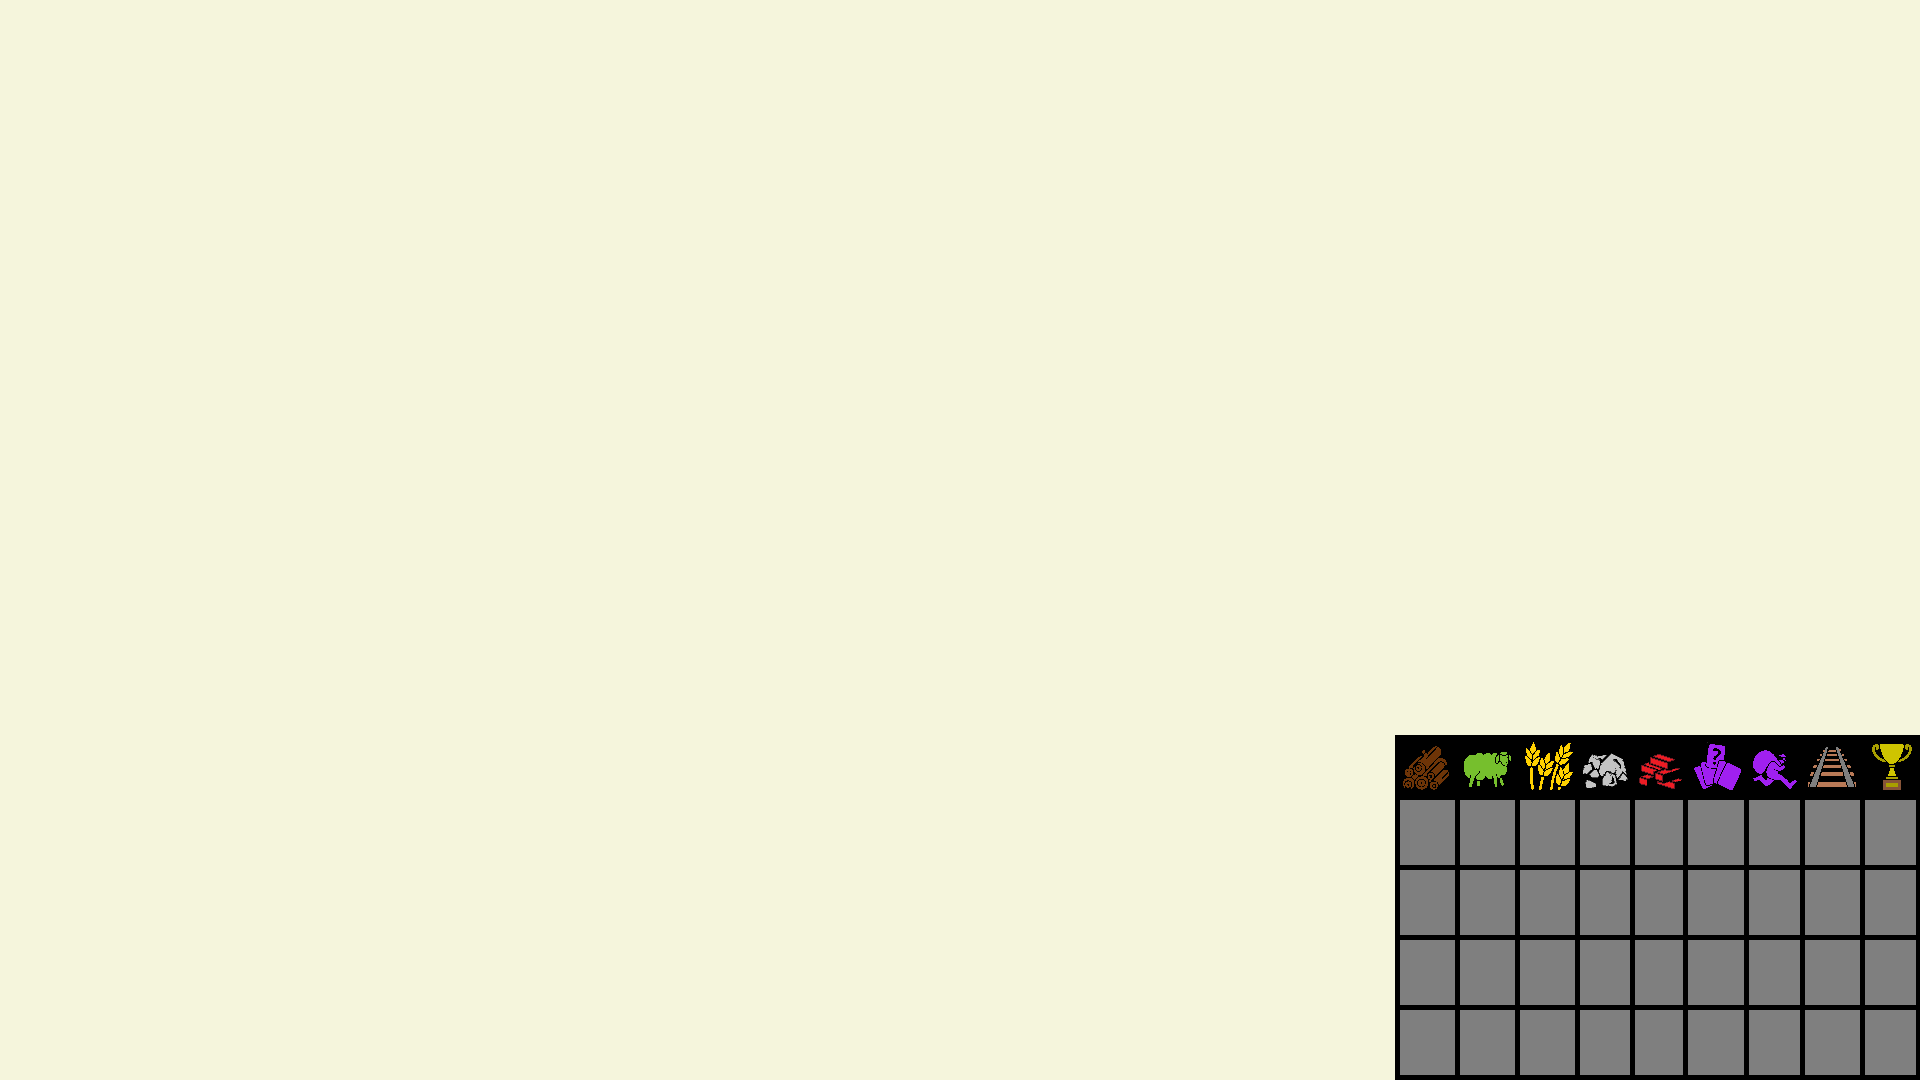
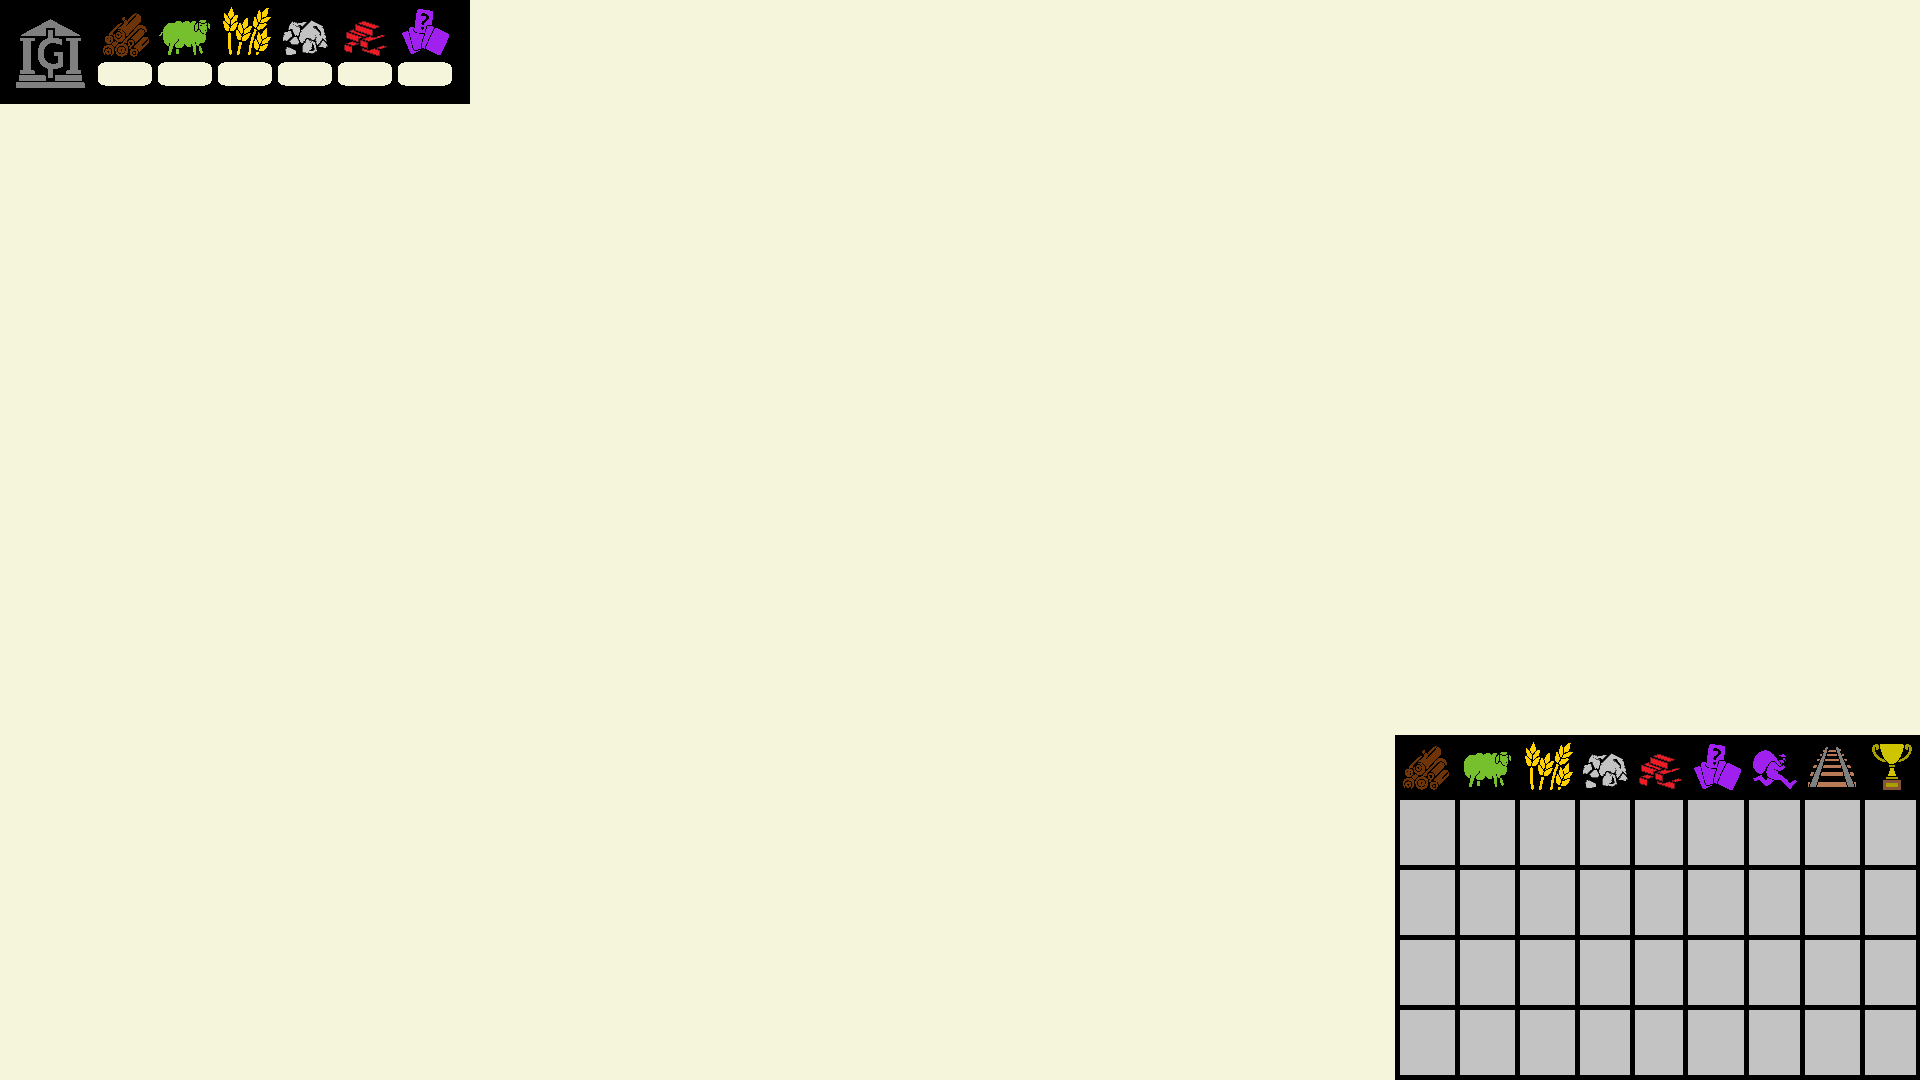
Implemented bank.py class / bank UI

Changed region(s): [[0.7188, 0.7333, 1.0, 1.0], [0.0, 0.0, 0.25, 0.1222]]

diff --git a/catan/player.py b/catan/player.py
@@ -1,6 +1,6 @@
 import pygame
 import math
-from catan.constants import HOUSE_POSITIONS, CYAN, VIC_POINT_THRESHOLD, BUFFER, ROAD_POSITIONS, NUMBER_FONT
+from catan.constants import HOUSE_POSITIONS, CYAN, VIC_POINT_THRESHOLD, BUFFER, ROAD_POSITIONS, NUMBER_FONT, BLACK
 
 
 class Player:
@@ -68,51 +68,51 @@ class Player:
 
     def draw_roads(self, screen):
         for road in self.roads:
-            pygame.draw.line(screen,self.color,road[0], road[1], 15)
+            pygame.draw.line(screen,self.color, road[0], road[1], 10)
 
     def draw_resources(self, screen, y_pos):
         # draw wood number
-        wood = NUMBER_FONT.render("{}".format(self.resources['wood']), True, self.color)
+        wood = NUMBER_FONT.render("{}".format(self.resources['wood']), True, BLACK)
         wood_rect = wood.get_rect(center=(1427, y_pos))
         screen.blit(wood, wood_rect)
 
         # draw sheep number
-        sheep = NUMBER_FONT.render("{}".format(self.resources['sheep']), True, self.color)
+        sheep = NUMBER_FONT.render("{}".format(self.resources['sheep']), True, BLACK)
         sheep_rect = sheep.get_rect(center=(1484, y_pos))
         screen.blit(sheep, sheep_rect)
 
         # draw wheat number
-        wheat = NUMBER_FONT.render("{}".format(self.resources['wheat']), True, self.color)
+        wheat = NUMBER_FONT.render("{}".format(self.resources['wheat']), True, BLACK)
         wheat_rect = wheat.get_rect(center=(1546, y_pos))
         screen.blit(wheat, wheat_rect)
 
         # draw ore number
-        ore = NUMBER_FONT.render("{}".format(self.resources['ore']), True, self.color)
+        ore = NUMBER_FONT.render("{}".format(self.resources['ore']), True, BLACK)
         ore_rect = ore.get_rect(center=(1604, y_pos))
         screen.blit(ore, ore_rect)
 
         # draw brick number
-        brick = NUMBER_FONT.render("{}".format(self.resources['brick']), True, self.color)
+        brick = NUMBER_FONT.render("{}".format(self.resources['brick']), True, BLACK)
         brick_rect = brick.get_rect(center=(1659, y_pos))
         screen.blit(brick, brick_rect)
 
         # draw dev_card number
-        dev_card = NUMBER_FONT.render("{}".format(len(self.development_cards)), True, self.color)
+        dev_card = NUMBER_FONT.render("{}".format(len(self.development_cards)), True, BLACK)
         dev_card_rect = dev_card.get_rect(center=(1717, y_pos))
         screen.blit(dev_card, dev_card_rect)
 
         # draw robber number
-        robber = NUMBER_FONT.render("{}".format(self.robbers), True, self.color)
+        robber = NUMBER_FONT.render("{}".format(self.robbers), True, BLACK)
         robber_rect = robber.get_rect(center=(1774, y_pos))
         screen.blit(robber, robber_rect)
 
         # draw road number
-        road = NUMBER_FONT.render("{}".format(len(self.roads)), True, self.color)
+        road = NUMBER_FONT.render("{}".format(len(self.roads)), True, BLACK)
         road_rect = road.get_rect(center=(1832, y_pos))
         screen.blit(road, road_rect)
 
         # draw vic_points number
-        vic_points = NUMBER_FONT.render("{}".format(self.victory_points), True, self.color)
+        vic_points = NUMBER_FONT.render("{}".format(self.victory_points), True, BLACK)
         vic_points_rect = vic_points.get_rect(center=(1889, y_pos))
         screen.blit(vic_points, vic_points_rect)
 

diff --git a/catan/bank.py b/catan/bank.py
@@ -1,0 +1,55 @@
+import pygame
+from catan import BLACK, BANK_NUMBER_FONT
+
+class Bank:
+    def __init__(self):
+        self.bank_resources ={'wood': 19, 'brick': 19, 'sheep': 19, 'wheat': 19, 'ore': 19}
+        self.dev_cards = [1,2,3,4,5,6,7,8,9,10,11,12,13,14,15,16,17,18,19,20,21,22,23,24,25]
+
+    def get_bank_resources(self):
+        return self.bank_resources
+
+    def get_dev_cards(self):
+        return self.dev_cards
+
+    def add_bank_resources(self, resource_type):
+        self.bank_resources[resource_type] += 1
+
+    def return_if_monument(self, dev_card):
+        if dev_card == "Monument":
+            self.dev_cards.append(dev_card)
+
+    def draw_bank_resources(self, screen):
+        y_pos = 73
+        # draw wood number
+        wood = BANK_NUMBER_FONT.render("{}".format(self.bank_resources['wood']), True, BLACK)
+        wood_rect = wood.get_rect(center=(124, y_pos))
+        screen.blit(wood, wood_rect)
+
+        # draw sheep number
+        sheep = BANK_NUMBER_FONT.render("{}".format(self.bank_resources['sheep']), True, BLACK)
+        sheep_rect = sheep.get_rect(center=(186, y_pos))
+        screen.blit(sheep, sheep_rect)
+
+        # draw wheat number
+        wheat = BANK_NUMBER_FONT.render("{}".format(self.bank_resources['wheat']), True, BLACK)
+        wheat_rect = wheat.get_rect(center=(246, y_pos))
+        screen.blit(wheat, wheat_rect)
+
+        # draw ore number
+        ore = BANK_NUMBER_FONT.render("{}".format(self.bank_resources['ore']), True, BLACK)
+        ore_rect = ore.get_rect(center=(306, y_pos))
+        screen.blit(ore, ore_rect)
+
+        # draw brick number
+        brick = BANK_NUMBER_FONT.render("{}".format(self.bank_resources['brick']), True, BLACK)
+        brick_rect = brick.get_rect(center=(366, y_pos))
+        screen.blit(brick, brick_rect)
+
+        # draw dev_card number
+        dev_card = BANK_NUMBER_FONT.render("{}".format(len(self.dev_cards)), True, BLACK)
+        dev_card_rect = dev_card.get_rect(center=(426, y_pos))
+        screen.blit(dev_card, dev_card_rect)
+
+
+

diff --git a/main.py b/main.py
@@ -1,8 +1,8 @@
-
 import sys
 import pygame
 from catan import SCREEN_WIDTH, SCREEN_HEIGHT, BLACK, CYAN, MENU_BG, MENU_TITLE_TEXT, MENU_TITLE_RECT, MENU_BUTTON_LIST, \
-    END_TURN_BUTTON, UI_BUTTONS, PLACE_HOUSE_BUTTON, HOUSE_POSITIONS, PLACE_HOUSE_BUTTONS, BACK_BUTTON,PLACE_ROAD_BUTTONS, \
+    END_TURN_BUTTON, UI_BUTTONS, PLACE_HOUSE_BUTTON, HOUSE_POSITIONS, PLACE_HOUSE_BUTTONS, BACK_BUTTON, \
+    PLACE_ROAD_BUTTONS, \
     PLACE_ROAD_BUTTON, ROAD_POSITIONS, ICON_32x
 from catan.game import Game
 
@@ -18,10 +18,6 @@ pygame.display.set_icon(ICON_32x)
 # Set up the clock
 clock = pygame.time.Clock()
 FPS = 60
-
-
-
-
 
 
 def main_menu():
@@ -58,8 +54,6 @@ def main_menu():
 NUM_PLAYERS = 4
 
 
-
-
 def play():
     run = True
     house_positions = HOUSE_POSITIONS.copy()
@@ -69,8 +63,6 @@ def play():
         player_names.append("P{}".format(i + 1))
     new_game = Game(player_names)
     game_state = "default"
-
-
 
     # Game loop
     while run:
@@ -83,7 +75,6 @@ def play():
         # get mouse position
         mos_pos = pygame.mouse.get_pos()
         # assign current_player
-
 
         # this state is for initial placements.
         if game_state == "initial placements":
@@ -182,7 +173,8 @@ def play():
                             # Add the road to the player's list of roads
                             current_player.add_road(pos)
                             road_positions.remove(pos)
-                            print(current_player.get_name(), "placed a road from {} to {}".format(start_point, end_point))
+                            print(current_player.get_name(),
+                                  "placed a road from {} to {}".format(start_point, end_point))
 
         # updates the board state
         new_game.update_state(SCREEN)

diff --git a/catan/game.py b/catan/game.py
@@ -1,6 +1,6 @@
 import pygame
 from catan import HOUSE_POSITIONS, MOUSE_BUFFER, board, player, COLOR_LIST, UI_BUTTONS, PLACE_HOUSE_BUTTON, \
-    END_TURN_BUTTON, PLACE_ROAD_BUTTON, NUMBER_FONT, BLACK
+    END_TURN_BUTTON, PLACE_ROAD_BUTTON, NUMBER_FONT, BLACK, bank
 
 
 class Game:
@@ -10,9 +10,10 @@ class Game:
                         player_names]  # create a new player list
         self.current_player_index = 0  # initialize the current player index
         self.game_over = False  # initialize the game over flag
-
+        self.bank = bank.Bank()
     def update_state(self, screen):
         # update the game board
+        self.bank.draw_bank_resources(screen)
         for current_player in self.players:
             current_player.draw_roads(screen)
 

diff --git a/catan/constants.py b/catan/constants.py
@@ -58,7 +58,7 @@ pygame.font.init()
 FONT = pygame.font.SysFont("comicsansms", 32)
 TITLE_FONT = pygame.font.SysFont("comicsansms", 42)
 NUMBER_FONT = pygame.font.SysFont("comicsansms", 29)
-
+BANK_NUMBER_FONT = pygame.font.SysFont("comicsansms", 15)
 # menu assets
 MENU_BG = pygame.image.load('assets/menu/Catan_BG.jpg')
 MENU_BUTTON = pygame.image.load('assets/menu/Play Rect.png')
